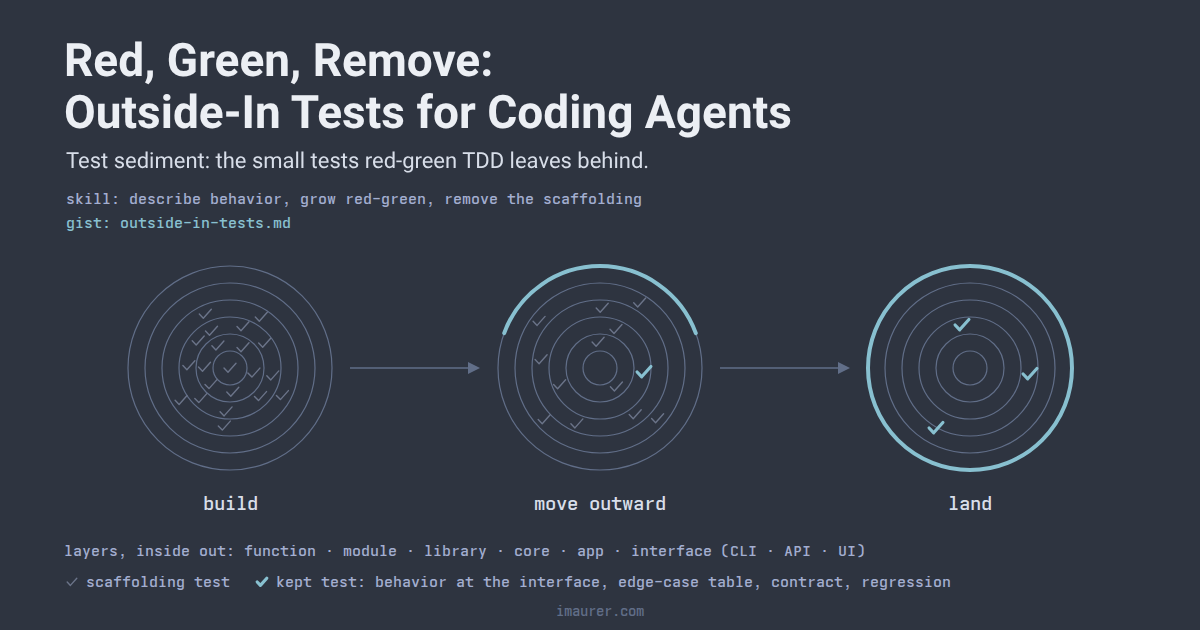
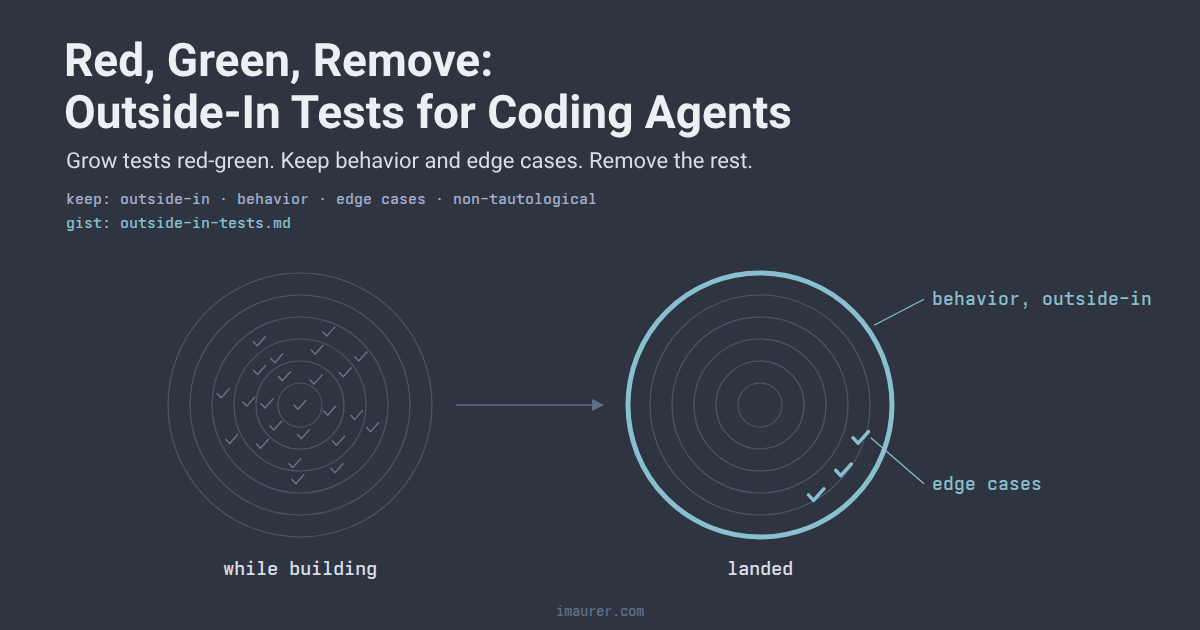
Simplify Red, Green, Remove around outside-in behavior and add coverage

diff --git a/astro/src/content/writing/red-green-remove-outside-in-tests.md b/astro/src/content/writing/red-green-remove-outside-in-tests.md
@@ -8,7 +8,7 @@ draft: false
 image: /images/red-green-remove-outside-in-tests.png
 ---
 
-![Three onions of nested layers, from function in the middle out to the interface. In build, many scaffolding tests pile up in the inner layers. In move outward, they thin out and a behavior ring starts at the interface. In land, a full behavior ring remains with a few kept tests inside.](/images/red-green-remove-outside-in-tests.png)
+![Two panels. While building, many small scaffolding tests sit inside nested rings. Once landed, the inside is nearly empty, a bold ring of behavior tests wraps the outside, and a few edge-case tests remain.](/images/red-green-remove-outside-in-tests.png)
 
 The OpenClaw team reported deleting around 400,000 lines of their own tests without much change in code coverage. That number stuck with me. Models love writing a test for every tiny change, and they rarely clean up after themselves.
 
@@ -22,15 +22,15 @@ Sediment slows every build, and agents run the suite constantly. It breaks on re
 
 ## Describe behavior first
 
-My approach starts outside the code. Describe the behavior in the user's words. Grow tests red-green. Keep what states behavior, and remove the rest before landing.
+My approach starts outside the code. Describe the behavior in the user's words. Grow tests red-green. Keep what states behavior, and remove the rest before landing. The goal is one set of outside-in tests that checks behavior and edge cases. No duplicates, and nothing tautological.
 
 I've found BDD with Cucumber powerful for the first step. Given a customer with a paid order, when they ask for a refund, then the order shows a pending refund. Cucumber's example tables become edge-case tables. The shape matters more than the tool. Glue code between the plain-language steps and the system can become sediment too, so keep it thin or skip the tool. A brief that lists behaviors this way hands an agent its outside-in tests.
 
-## Think in layers
+## Test from the outside in
 
-Software nests like an onion. Functions serve modules, modules serve libraries, libraries serve the core, and the core serves the app. The user meets the outermost layer: a command line, an API or a screen.
+Test each behavior where the user or caller meets it: the command line, the API or the screen. Care little about the layers underneath. They may change while the behavior holds. Test something inside directly only when it owns behavior worth stating on its own, such as a parser.
 
-Test each behavior at the outermost layer that can state it. Care little about the one or two layers below. They may change while the behavior holds. Give each behavior one owning test. A bug gets one regression test at the layer that owns it. Don't repeat it at every layer the bug crosses.
+Give each behavior one owning test. A bug gets one regression test where it shows. Don't repeat it at every layer the bug crosses.
 
 ## Red, green, remove
 
@@ -45,6 +45,10 @@ The four kinds that stay:
 - **Edge-case tables**: boundaries, empty input, bad input and limits in one table.
 - **Contract checks** on what others depend on: schemas, output formats, secrecy, releases.
 - **Regression tests** that failed on the code before the fix.
+
+## Coverage counts lines, not claims
+
+Line coverage tells you which code ran during the tests. It doesn't tell you whether any test would notice that code going wrong. A tautological test runs the code and asserts what its setup already made true. Coverage goes up, and nothing is checked. So treat coverage as a map of what's untested, never as proof of what's tested. Mutation testing asks the better question: if this code broke, would a test fail?
 
 ## What about deleting all your unit tests?
 
